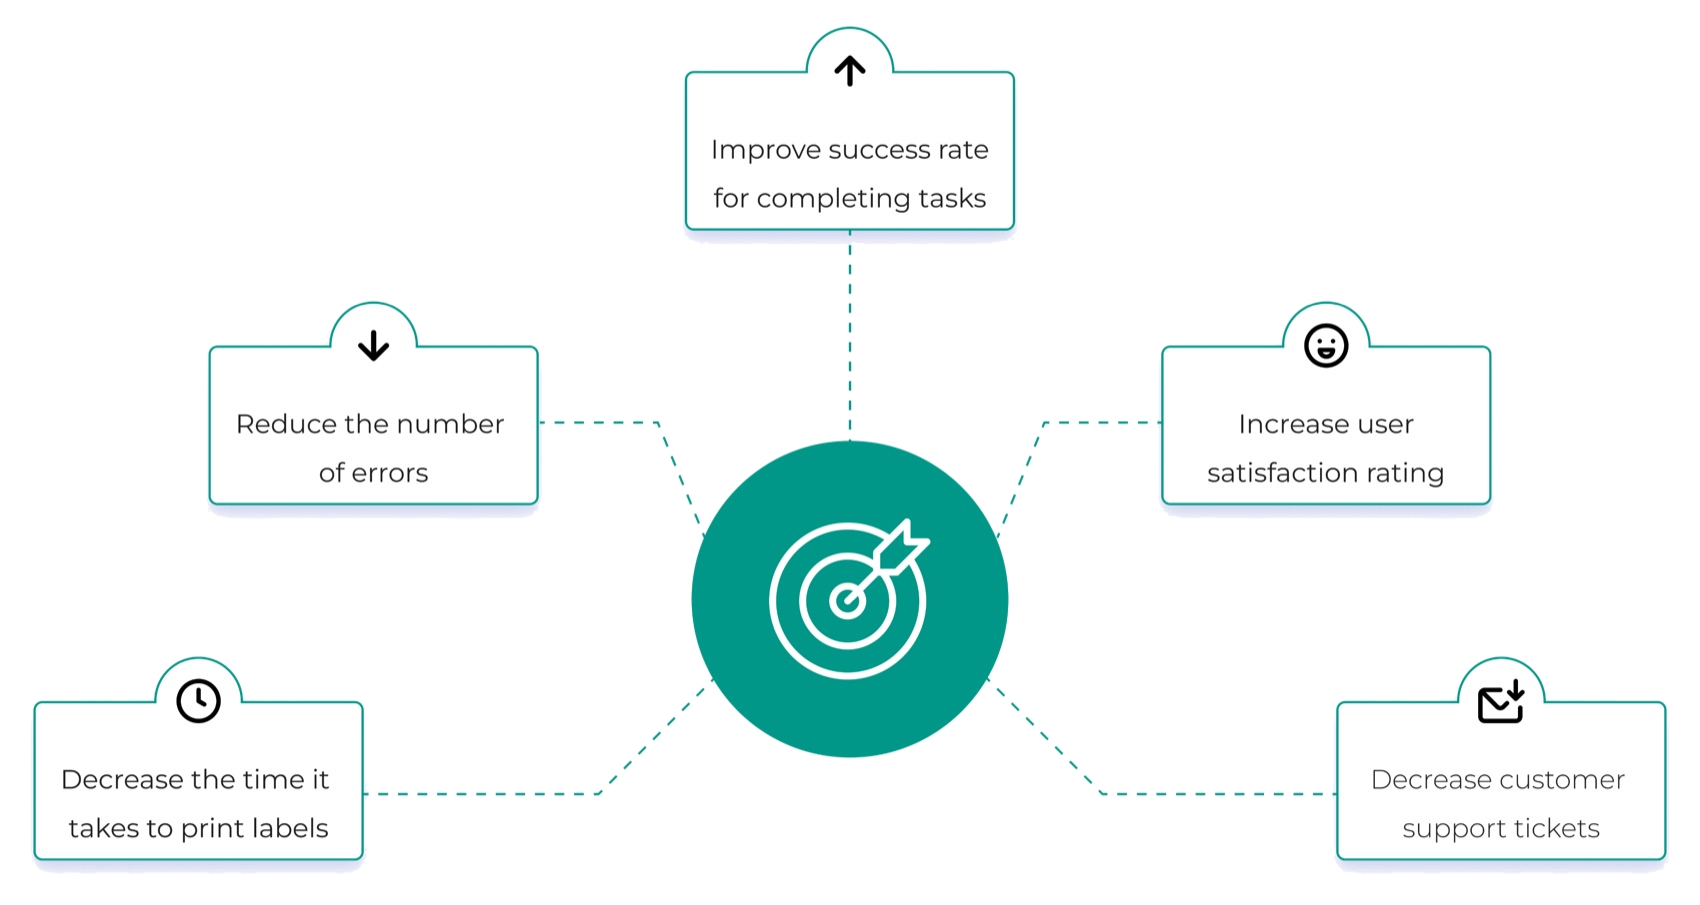
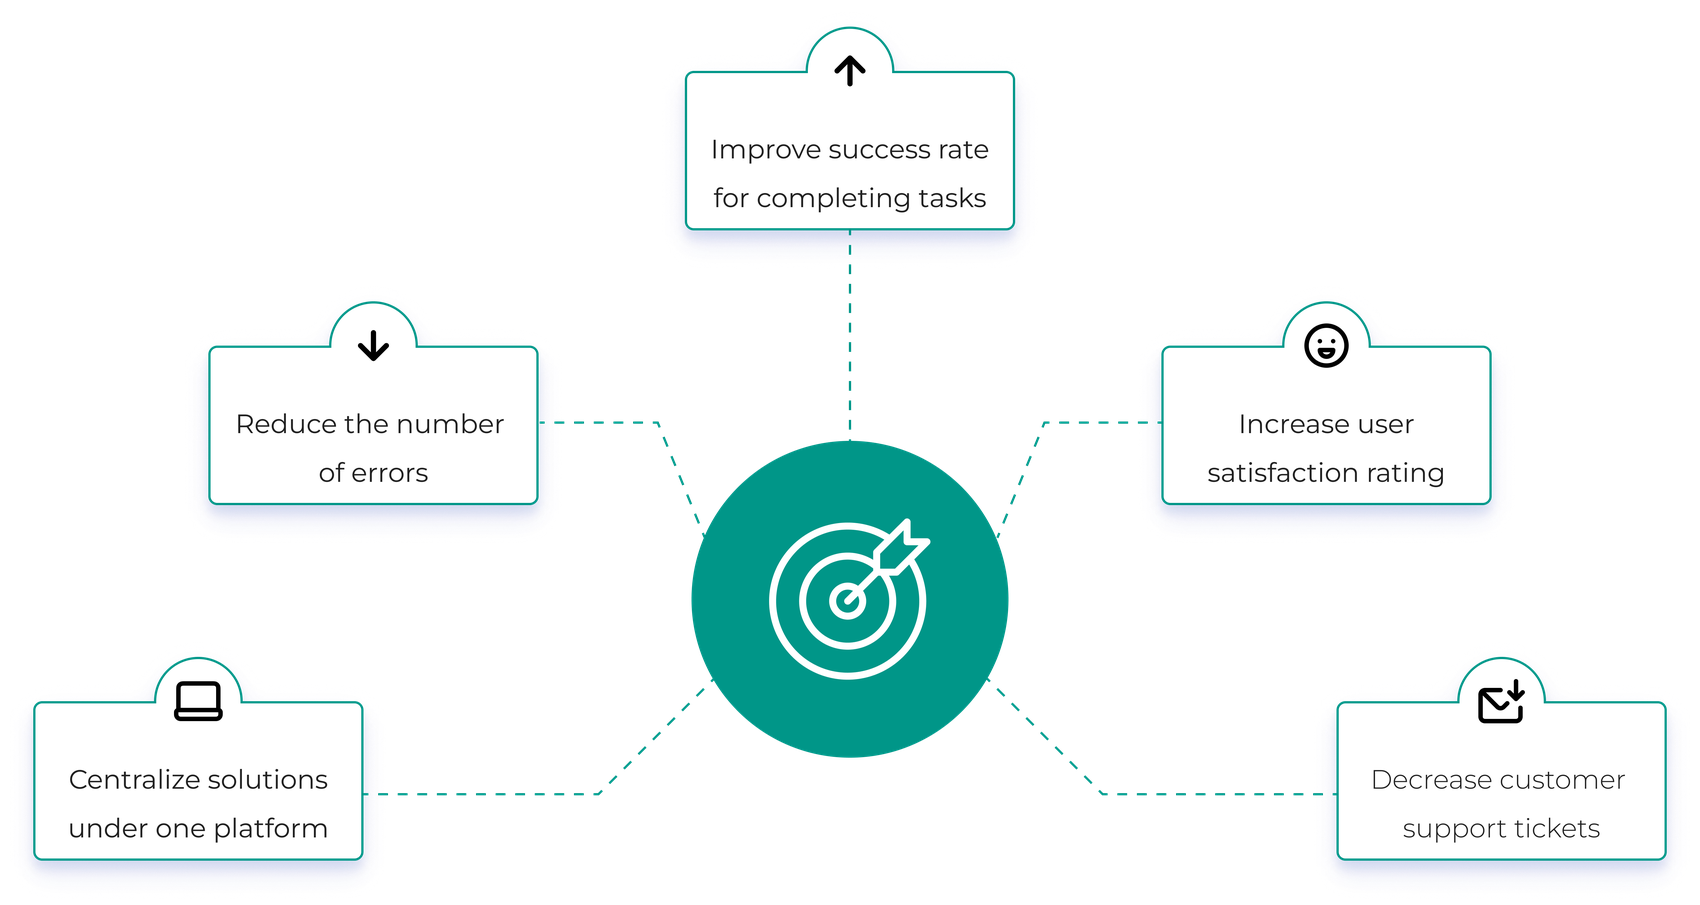
Update iTracefresh design goals graphic to centralize solutions

diff --git a/case-studies/itracefresh.html b/case-studies/itracefresh.html
@@ -180,7 +180,7 @@
       </div>
       <div class="cs-section-body">
         <p><strong style="color:var(--cs-accent)">Improved UX/UI</strong> = additional value and opportunity to retain or attract new customers.</p>
-        <img class="cs-image cs-image-plain cs-image-70" src="assets/itracefresh/itracefresh-design-goals-v2.png" alt="Design goals diagram: improve success rate for completing tasks, increase user satisfaction rating, decrease customer support tickets, decrease the time it takes to print labels, and reduce the number of errors, all in service of improved UX/UI justifying a higher price tag.">
+        <img class="cs-image cs-image-plain cs-image-70" src="assets/itracefresh/itracefresh-design-goals-v2.png" alt="Design goals diagram: improve success rate for completing tasks, increase user satisfaction rating, decrease customer support tickets, centralize solutions under one platform, and reduce the number of errors, all in service of improved UX/UI justifying a higher price tag.">
       </div>
     </div>
 
